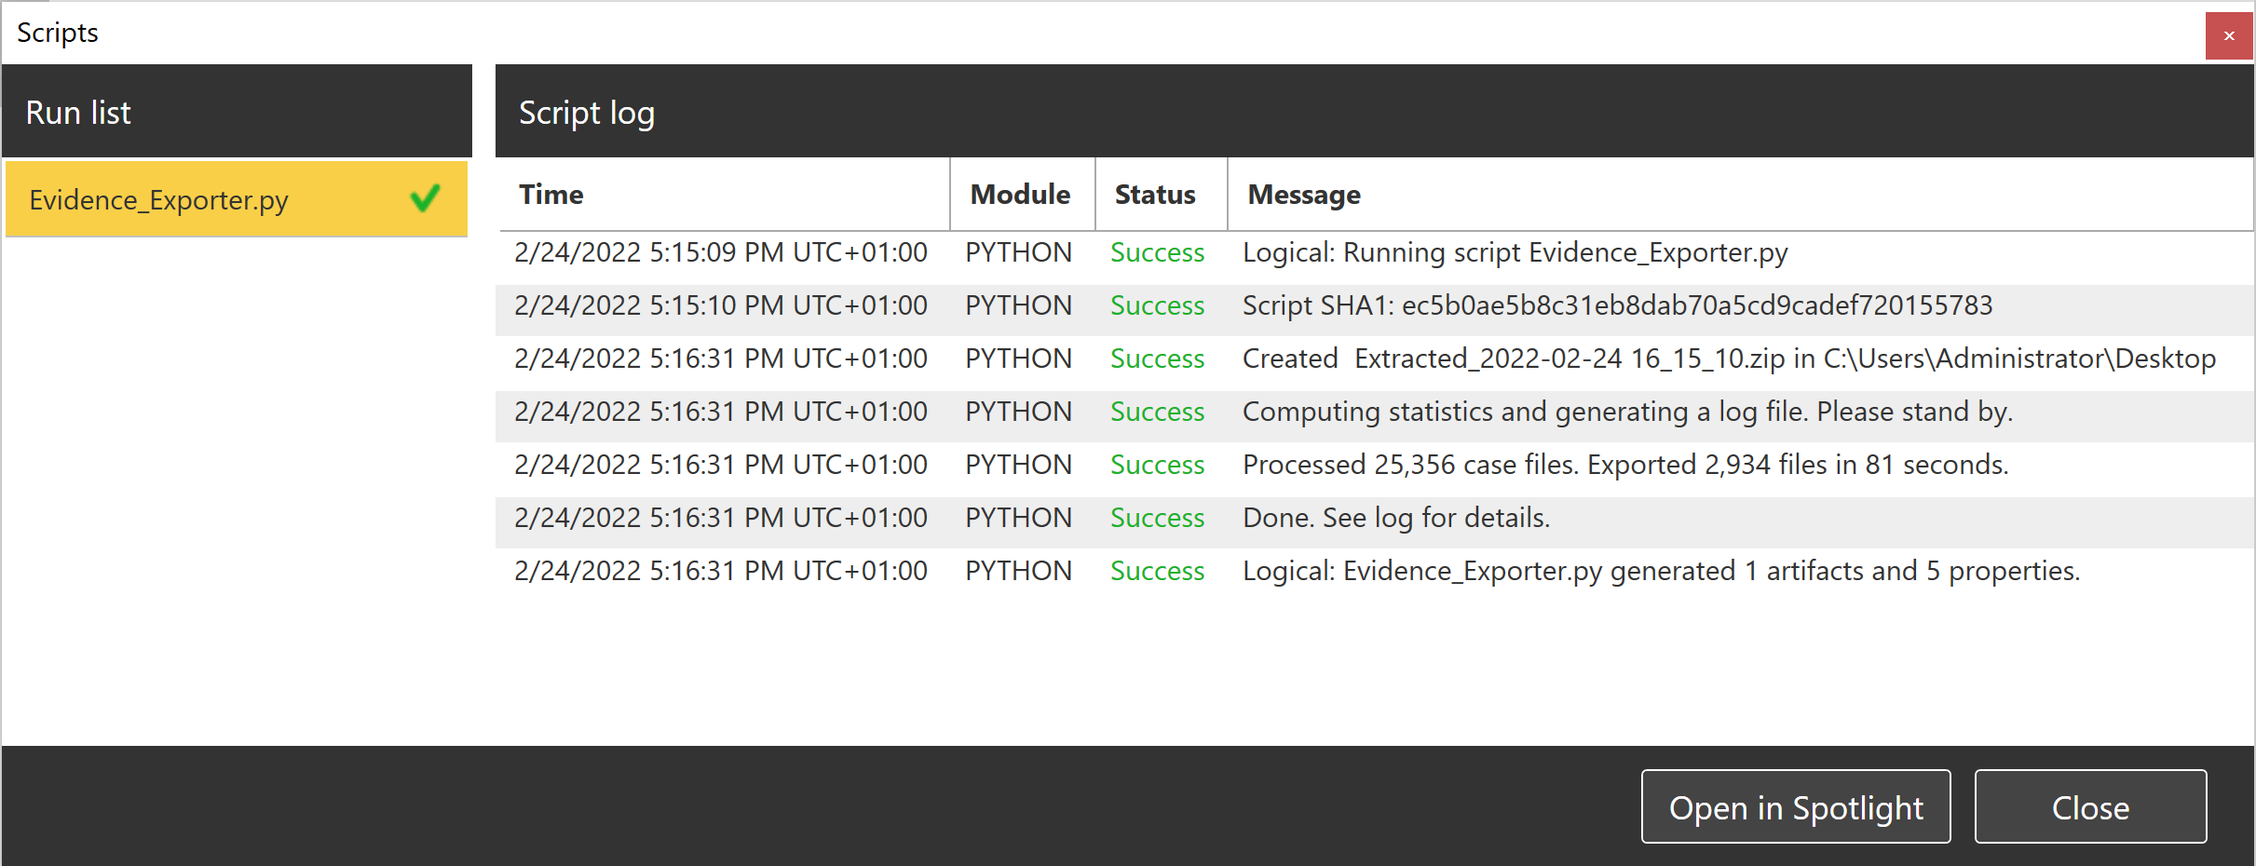
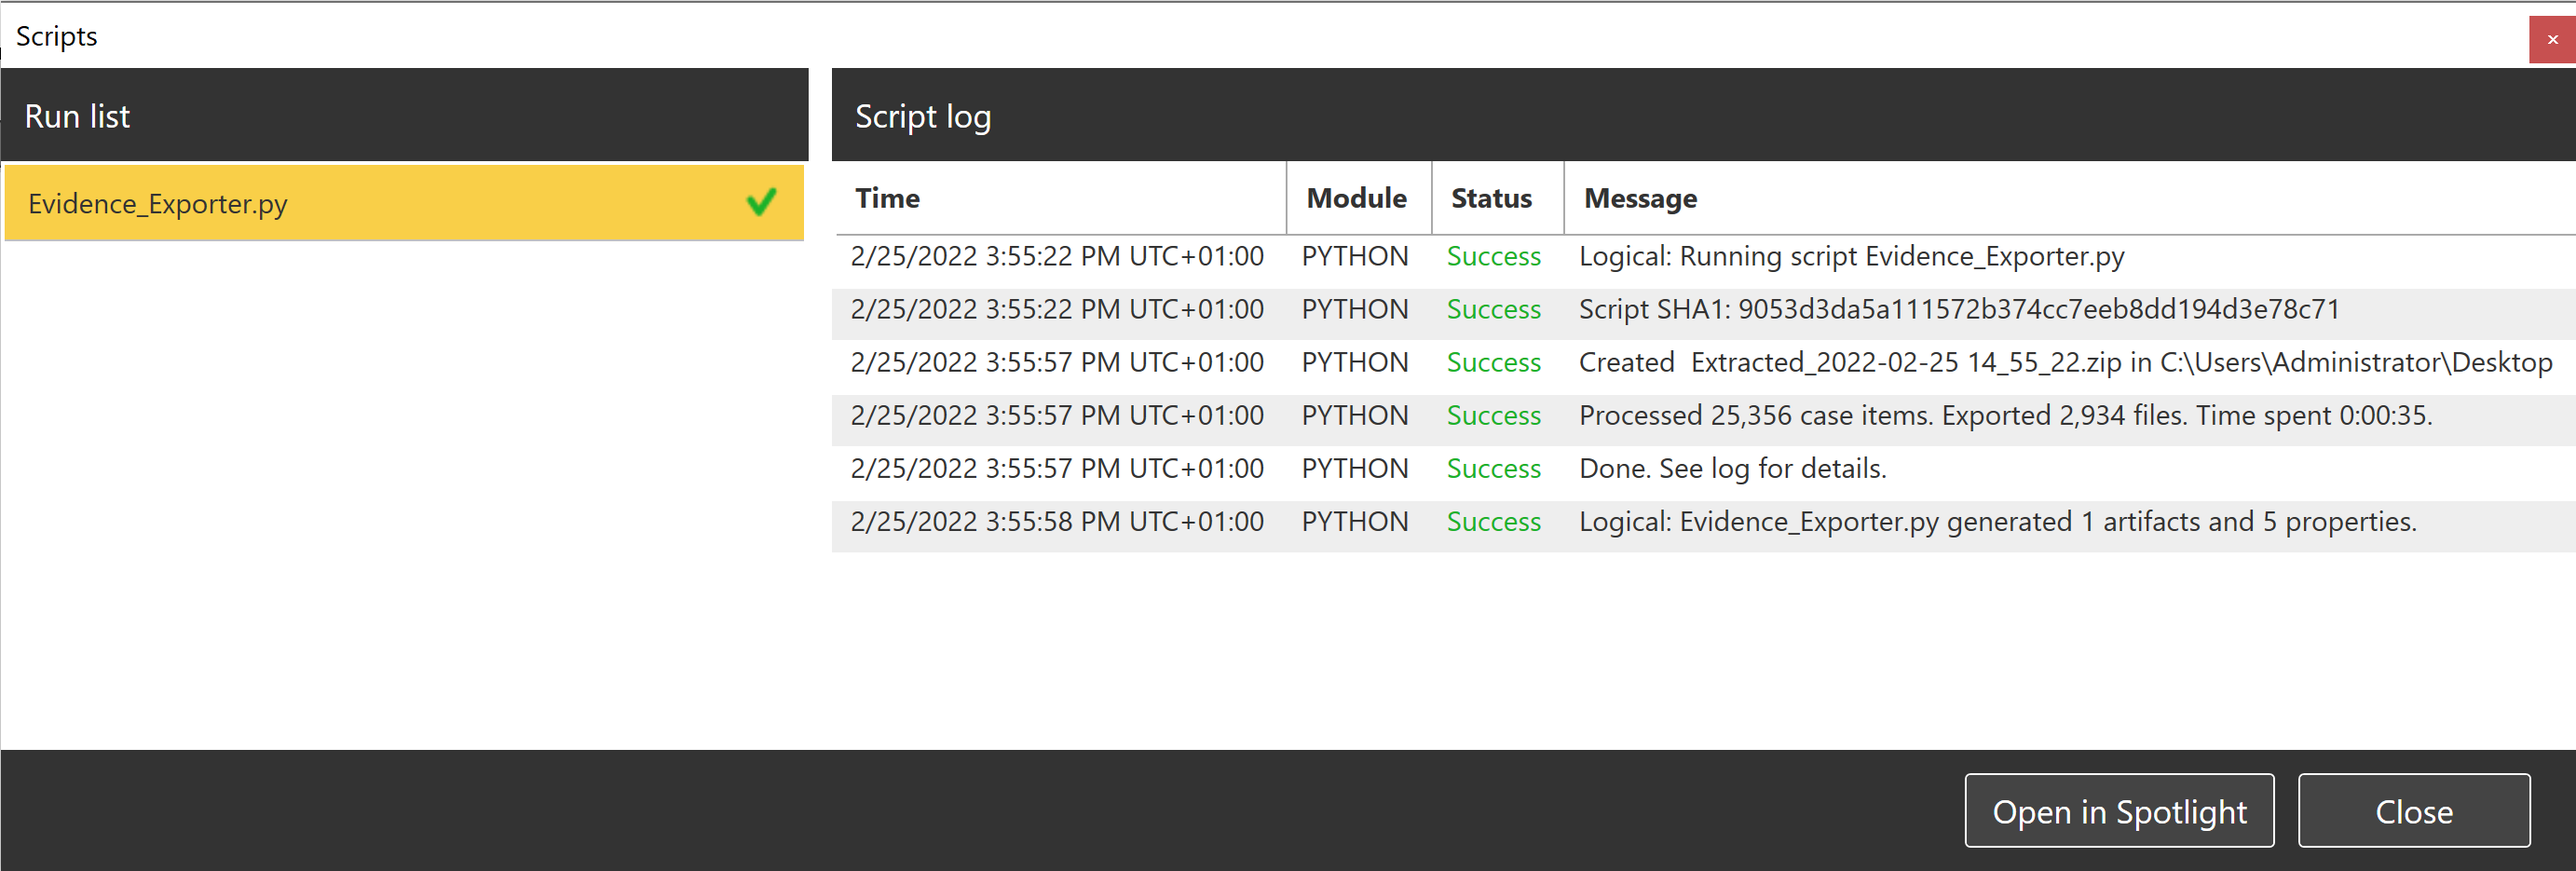
v0.3

diff --git a/Evidence_Exporter.py b/Evidence_Exporter.py
@@ -23,16 +23,17 @@ import xry
 import io
 import os
 import csv
+import sys
 import time
 import zipfile
 import datetime
 
-__contact__ = "https://github.com/jankais3r"
-__version__ = "0.2"
+__contact__ = "https://github.com/jankais3r/XRY-Evidence-Extractor"
+__version__ = "0.3"
 __description__ = "Creates a ZIP archive with logical evidence that can be parsed by other forensic tools"
 
-
-def monkeyWritecheck(self, zinfo): # ʕ ᵔᴥᵔ ʔ monkey-patching a zipfile function that usually just warns about duplicate files to skip them entirely
+# ʕᵔᴥᵔʔ Monkey-patching a zipfile function that usually just warns about duplicate files to skip them entirely.
+def monkeyWritecheck(self, zinfo):
 		"""Check for errors before writing a file to the archive."""
 		if zinfo.filename in self.NameToInfo:
 			#import warnings
@@ -55,9 +56,79 @@ def monkeyWritecheck(self, zinfo): # ʕ ᵔᴥᵔ ʔ monkey-patching a zipfile f
 				raise LargeZipFile(requires_zip64 + ' would require ZIP64 extensions')
 zipfile.ZipFile._writecheck = monkeyWritecheck
 
+# We need this to calculate the remaining RAM. Source: https://stackoverflow.com/a/31546725
+from ctypes import Structure, c_int32, c_uint64, sizeof, byref, windll
+class MemoryStatusEx(Structure):
+	_fields_ = [
+		('length', c_int32),
+		('memoryLoad', c_int32),
+		('totalPhys', c_uint64),
+		('availPhys', c_uint64),
+		('totalPageFile', c_uint64),
+		('availPageFile', c_uint64),
+		('totalVirtual', c_uint64),
+		('availVirtual', c_uint64),
+		('availExtendedVirtual', c_uint64)]
+	def __init__(self):
+		self.length = sizeof(self)
+
+def writeToFile():
+	global logText, fileBuffer
+	with zipfile.ZipFile(os.path.join(outputDir, 'Extracted_' + time.strftime('%Y-%m-%d %H_%M_%S', time.gmtime(startTime)) + '.zip'), mode = 'a') as zf:
+		for f in fileBuffer:
+			itemName = f[0]
+			itemPath = f[1]
+			itemXRYModified = f[2]
+			itemSize = f[4]
+			
+			if len(itemName) > 0 and len(itemPath) > 0:
+				try:
+					itemXRYModified = str(itemXRYModified[0])
+					itemZIPModified = itemXRYModified[:itemXRYModified.find(' UTC')]
+					if itemZIPModified[1] == '/':
+						itemZIPModified = '0' + itemZIPModified
+					if itemZIPModified[4] == '/':
+						itemZIPModified = itemZIPModified[:3] + '0' + itemZIPModified[3:]
+					if itemZIPModified[12] == ':':
+						itemZIPModified = itemZIPModified[:11] + '0' + itemZIPModified[11:]
+					itemZIPModified = time.localtime(datetime.datetime.strptime(itemZIPModified, '%m/%d/%Y %I:%M:%S %p').timestamp())
+					status = 'OK'
+					reason = 'OK'
+					info = zipfile.ZipInfo(str(itemPath[0]) + str(itemName[0]), date_time = itemZIPModified)
+					zf.writestr(info, f[3].getvalue())
+					itemZIPModified = datetime.datetime.fromtimestamp(time.mktime(itemZIPModified)).strftime('%Y-%m-%d %H:%M:%S')
+				except ValueError: # Triggers on the monkey-patched function on duplicate item entry.
+					status = 'Skipped file'
+					reason = 'Extracted child item (Extracted archive item)'
+					itemXRYModified = ''
+					itemZIPModified = ''
+				except Exception as e: # Triggers on all other items with no Date Modified, which is an indication of XRY synthesised item.
+					#print(e) # If you are getting weird results (e.g., 0 files exported), uncomment this print() to see why the files fail to be exported.
+					status = 'Skipped file'
+					reason = 'Extracted child item (Synthesised XRY item)'
+					itemXRYModified = ''
+					itemZIPModified = ''
+			else: # We are not interested in "files" that do not have a Path or File Name.
+				status = 'Skipped file'
+				reason = 'Missing Path or Name'
+				itemZIPModified = ''
+				try:
+					itemXRYModified = str(itemXRYModified[0])
+				except:
+					itemXRYModified = ''
+			try:
+				itemPath = str(itemPath[0])
+			except:
+				itemPath = ''
+			try:
+				itemName = str(itemName[0])
+			except:
+				itemName = ''
+			logText += '"' + status + '","' + reason + '","' + itemPath + '","' + itemName + '","' + itemXRYModified + '","' + itemZIPModified + '","' + itemSize + '"\n'
+	fileBuffer = []
 
 def parseRecursive(image, node, item):
-	global logText
+	global logText, fileBuffer
 	try:
 		items = image.get_children(item[0])
 	except:
@@ -69,71 +140,35 @@ def parseRecursive(image, node, item):
 		itemData = image.get_properties_of_type(items[i], xry.proptypes.raw_data)
 		itemXRYModified = image.get_properties_of_type(items[i], xry.proptypes.modified)
 		
-		if len(itemName) > 0 and len(itemPath) > 0:
-			try:
-				itemXRYModified = str(itemXRYModified[0])
-				itemZIPModified = itemXRYModified[:itemXRYModified.find(' UTC')]
-				if itemZIPModified[1] == '/':
-					itemZIPModified = '0' + itemZIPModified
-				if itemZIPModified[4] == '/':
-					itemZIPModified = itemZIPModified[:3] + '0' + itemZIPModified[3:]
-				if itemZIPModified[12] == ':':
-					itemZIPModified = itemZIPModified[:11] + '0' + itemZIPModified[11:]
-				itemZIPModified = time.localtime(datetime.datetime.strptime(itemZIPModified, '%m/%d/%Y %I:%M:%S %p').timestamp())
-				status = 'OK'
-				reason = 'OK'
-				
-				mem = image.create_memifc(itemData[0])
-				fakeFile = io.BytesIO(mem[:])
-				with zipfile.ZipFile(os.path.join(outputDir, 'Extracted_' + time.strftime('%Y-%m-%d %H_%M_%S', time.gmtime(startTime)) + '.zip'), mode = 'a') as zf:
-					info = zipfile.ZipInfo(str(itemPath[0]) + str(itemName[0]), date_time = itemZIPModified)
-					zf.writestr(info, fakeFile.getvalue())
-				itemZIPModified = datetime.datetime.fromtimestamp(time.mktime(itemZIPModified)).strftime('%Y-%m-%d %H:%M:%S')
-			except ValueError: # triggers on the monkey-patched function
-				status = 'Skipped file'
-				reason = 'Extracted child item (Extracted archive item)'
-				itemXRYModified = ''
-				itemZIPModified = ''
-			except Exception as e: # triggers on all other items with no Date Modified, which is an indication of XRY synthesised item
-				#print(e) # if you are getting weird results (e.g., 0 files exported), uncomment this print() to see why the files fail to be exported
-				status = 'Skipped file'
-				reason = 'Extracted child item (Synthesised XRY item)'
-				itemXRYModified = ''
-				itemZIPModified = ''
-		else: # we are not interested in "files" that do not have a Path or File Name
-			status = 'Skipped file'
-			reason = 'Missing Path or Name'
-			itemZIPModified = ''
-			try:
-				itemXRYModified = str(itemXRYModified[0])
-			except:
-				itemXRYModified = ''
+		try:
+			mem = image.create_memifc(itemData[0])
+			itemBytes = io.BytesIO(mem[:])
+			itemSize = itemBytes.getbuffer().nbytes
+		except:
+			itemBytes = None
+			itemSize = 0
 		
-		try:
-			itemPath = str(itemPath[0])
-		except:
-			itemPath = ''
-		try:
-			itemName = str(itemName[0])
-		except:
-			itemName = ''
-		try:
-			itemSize = str(fakeFile.getbuffer().nbytes)
-		except:
-			itemSize = '0'
-		logText += '"' + status + '","' + reason + '","' + itemPath + '","' + itemName + '","' + itemXRYModified + '","' + itemZIPModified + '","' + itemSize + '"\n'
+		m = MemoryStatusEx()
+		windll.kernel32.GlobalMemoryStatusEx(byref(m))
+		if (m.availPhys / (1024.)**3) <= memoryMargin:
+			print('Reached the set memory margin limit (' + str(memoryMargin) + ' GB). Writing in-memory files to disk.')
+			writeToFile()
+			fileBuffer.append([itemName, itemPath, itemXRYModified, itemBytes, str(itemSize)])
+		else:
+			fileBuffer.append([itemName, itemPath, itemXRYModified, itemBytes, str(itemSize)])
 		parseRecursive(image, node, items[i])
 
 outputDir = os.path.join(os.path.expanduser('~'), 'Desktop')
+fileBuffer = []
+memoryMargin = 3 # The script will write files held in memory to disk once the computer only has this amount of RAM (in GB) available.
 startTime = time.time()
 logText = '"Status","Reason","Path","Filename","XRY Date Modified","ZIP Date Modified","Size"\n'
 
 def main(image, node):
 	volumeRoot = image.get_children(xry.nodeids.roots.volume_root)
 	parseRecursive(image, node, volumeRoot)
+	writeToFile()
 	runTime = int(round(time.time() - startTime))
-	print('Created  Extracted_' + time.strftime('%Y-%m-%d %H_%M_%S', time.gmtime(startTime)) + '.zip in ' + outputDir)
-	print('Computing statistics and generating a log file. Please stand by.')
 	with open(os.path.join(outputDir,  'Extracted_' + time.strftime('%Y-%m-%d %H_%M_%S', time.gmtime(startTime)) + '_log.csv'), 'w', encoding = 'utf8', errors = 'ignore') as lf:
 		lf.write(logText)
 	logDict = csv.DictReader(io.StringIO(logText))
@@ -143,5 +178,6 @@ def main(image, node):
 		encountered += 1
 		if r['Status'] == 'OK':
 			exported += 1
-	print(f'Processed {encountered:,d} case files. Exported {exported:,d} files in {runTime:,d} seconds.')
+	print('Created  Extracted_' + time.strftime('%Y-%m-%d %H_%M_%S', time.gmtime(startTime)) + '.zip in ' + outputDir)
+	print(f'Processed {encountered:,d} case items. Exported {exported:,d} files. Time spent ' + str(datetime.timedelta(seconds = runTime)) + '.')
 	print('Done. See log for details.')
